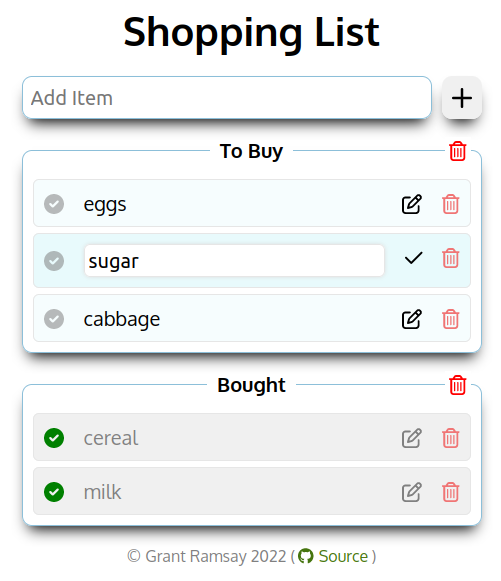
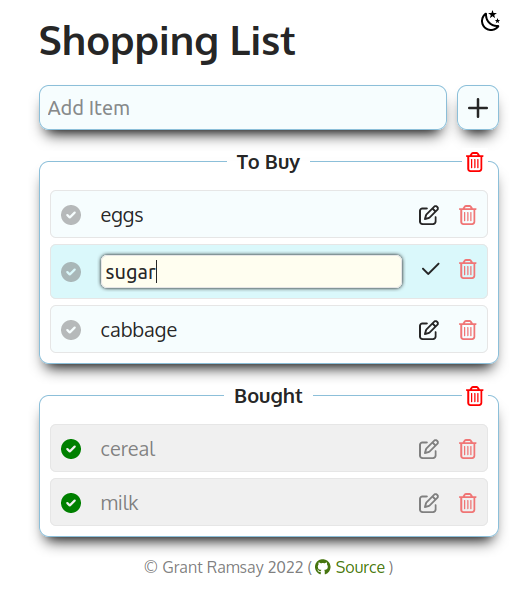
update README and screenshot

diff --git a/README.md b/README.md
@@ -28,6 +28,8 @@ I'll look at replacing this with a free solution when the app is completed.**
 - Save current items to LocalStorage so they persist between sessions.
 - Drag and drop ordering of items, even between lists. Does not work on Mobile
   devices
+- Light/Dark mode toggle
+- Responsive Design
 
 ## Functionality Planned
 
@@ -43,7 +45,6 @@ I'll look at replacing this with a free solution when the app is completed.**
 - Remember previous items and shops for later input.
 - Save the entire list as a favourite, ability to load from saved favourites
   overwriting any current list.
-- Fully responsive design.
 - add a toaster-notification system for add/complete/delete/errors etc. Try
   write from scratch.
 
